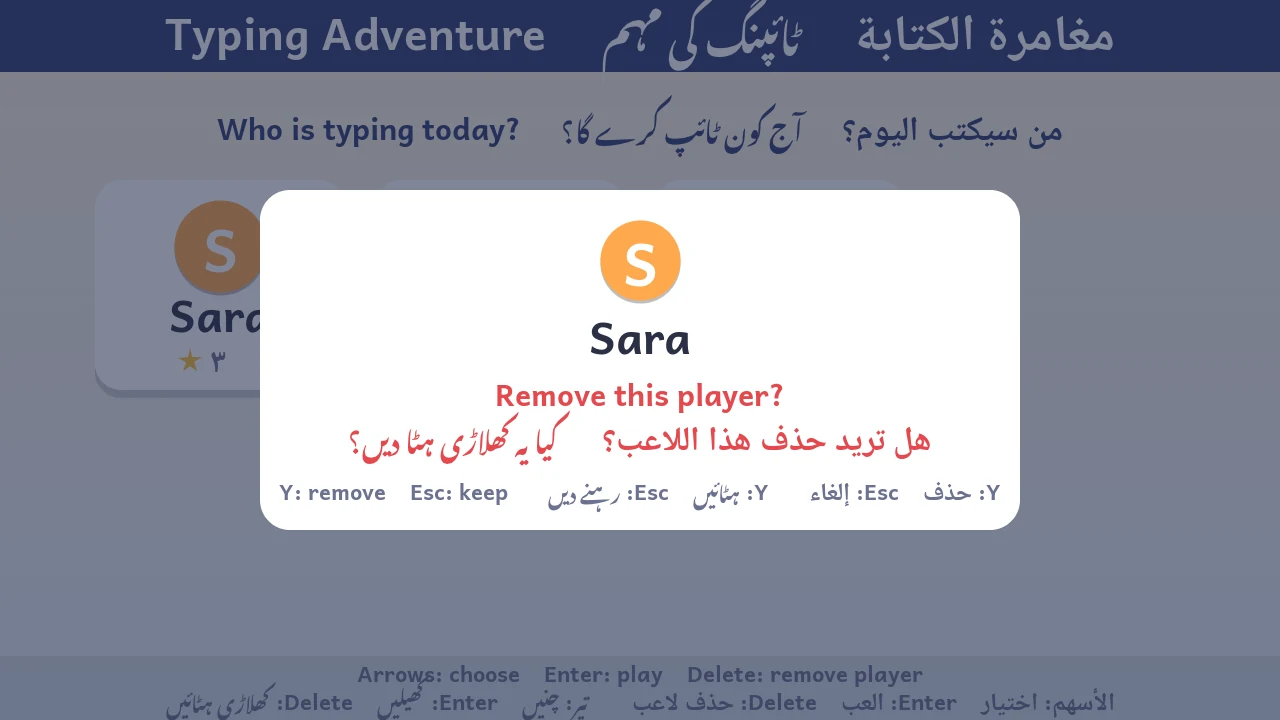
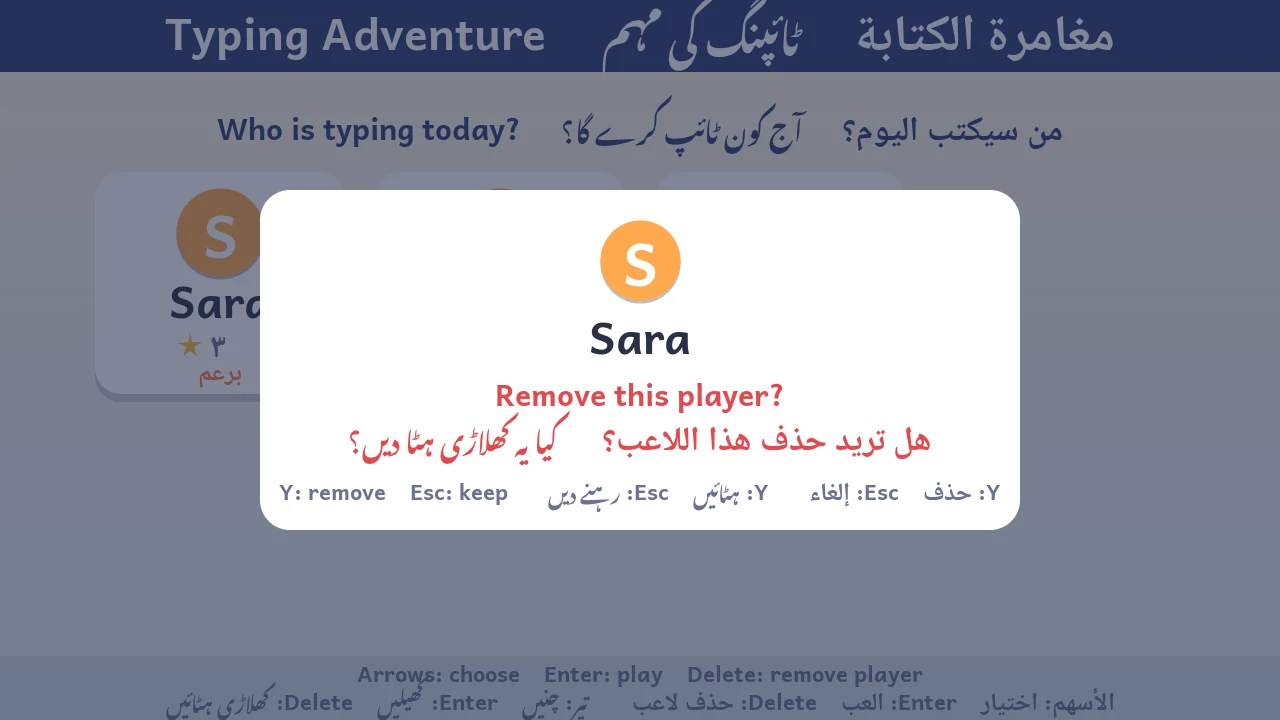
Show player ranks on the player cards and announce new ones
The eight ranks (Seedling to Grand Master, by total stars) existed but were
never drawn. Each player card now shows its rank in the player's language,
and a lesson that raises the rank says "New rank: Explorer!" on the results
screen, in place of the stars comment. Player cards are slightly shorter so
the second row stays clear of the hint bar.

The website gains a rank-up screenshot, and its players screenshot now
shows four players at different ranks.

Changed region(s): [[0.125, 0.2444, 0.2188, 0.55]]

diff --git a/docs/index.html b/docs/index.html
@@ -111,7 +111,7 @@
 			<div class="card">
 				<div class="icon" style="background:var(--f-thumb)"><svg viewBox="0 0 24 24"><path d="M12 3l2.6 5.6 6 .7-4.5 4.1 1.2 6L12 16.4 6.7 19.4l1.2-6-4.5-4.1 6-.7z"/></svg></div>
 				<h4>Fun that is still practice</h4>
-				<p>Stars, points, streaks, 13 badges and a balloon-popping game. The game only uses keys the child has already learned, so playing it is practice too.</p>
+				<p>Stars, points, streaks, 13 badges, eight ranks from Seedling to Grand Master, and a balloon-popping game. The game only uses keys the child has already learned, so playing it is practice too.</p>
 			</div>
 		</div>
 	</div>
@@ -191,7 +191,7 @@
 			<h3>Starting up</h3>
 			<div class="shots">
 				<figure class="shot"><button type="button"><img src="img/splash.webp" width="1280" height="720" loading="lazy" alt="Start screen with bouncing coloured keycaps and the title in three languages."></button><figcaption><strong>Start screen</strong>Shown for a moment while the Pi finds the keyboard.</figcaption></figure>
-				<figure class="shot"><button type="button"><img src="img/players.webp" width="1280" height="720" loading="lazy" alt="Players screen with four player cards and a New player card."></button><figcaption><strong>Who is typing today?</strong>Each child picks their own card. Stars earned so far are shown under each name.</figcaption></figure>
+				<figure class="shot"><button type="button"><img src="img/players.webp" width="1280" height="720" loading="lazy" alt="Players screen with four player cards, each showing stars and a rank, and a New player card."></button><figcaption><strong>Who is typing today?</strong>Each child picks their own card, which shows their stars and rank in their own language.</figcaption></figure>
 				<figure class="shot"><button type="button"><img src="img/new-player.webp" width="1280" height="720" loading="lazy" alt="New player screen with the name Sara typed and a row of colours to pick from."></button><figcaption><strong>New player</strong>Type a name and pick a colour with the arrow keys.</figcaption></figure>
 				<figure class="shot"><button type="button"><img src="img/new-player-ur.webp" width="1280" height="720" loading="lazy" alt="New player screen with an Urdu name typed."></button><figcaption><strong>Names in any script</strong><kbd>Tab</kbd> switches between English, Arabic and Urdu letters.</figcaption></figure>
 				<figure class="shot"><button type="button"><img src="img/courses.webp" width="1280" height="720" loading="lazy" alt="Course picker with English, Arabic and Urdu cards."></button><figcaption><strong>Choose a course</strong>English, Arabic or Urdu, each with its own progress.</figcaption></figure>
@@ -226,9 +226,10 @@
 		</div>
 
 		<div class="tour-group">
-			<h3>Results and badges</h3>
+			<h3>Results, ranks and badges</h3>
 			<div class="shots">
 				<figure class="shot"><button type="button"><img src="img/results.webp" width="1280" height="720" loading="lazy" alt="Lesson complete with three stars, 99% accuracy, 57 words per minute and new badges."></button><figcaption><strong>Lesson complete</strong>Stars, accuracy, speed, points and any new badges.</figcaption></figure>
+				<figure class="shot"><button type="button"><img src="img/rank-up.webp" width="1280" height="720" loading="lazy" alt="Lesson complete with three stars and the message New rank: Explorer!"></button><figcaption><strong>A new rank</strong>Stars from every course add up to eight ranks, from Seedling through Explorer, Keyboard Knight and Typing Hero to Grand Master.</figcaption></figure>
 				<figure class="shot"><button type="button"><img src="img/results-practise.webp" width="1280" height="720" loading="lazy" alt="Lesson complete with one star, 91% accuracy, and the D key to practise."></button><figcaption><strong>Keys to practise</strong>The keys that caused the most mistakes, and a hint for earning more stars.</figcaption></figure>
 				<figure class="shot"><button type="button"><img src="img/badges.webp" width="1280" height="720" loading="lazy" alt="The badges screen with 13 badges, some earned in colour and some still grey."></button><figcaption><strong>13 badges</strong>From First Steps and Home Row Hero to Rocket (30 words per minute), Bilingual and Graduate.</figcaption></figure>
 			</div>

diff --git a/src/core/app.cpp b/src/core/app.cpp
@@ -23,6 +23,7 @@ void App::Init()
 	m_now = m_lastUpdate = m_platform->Millis();
 	m_dirty = true;
 	m_caps = false;
+	m_newRank = -1;
 	m_player = 0;
 	m_lang = LangEn;
 	m_sel = 0;
@@ -672,9 +673,9 @@ void App::DrawProfiles(Canvas &c)
 	DrawAllLangs(c, S_WhoIsTyping, font::Body, W / 2, 140, pal::Navy);
 
 	int items = m_store.count + (m_store.count < kMaxProfiles ? 1 : 0);
-	const int cw = 250, ch = 210, gap = 30, x0 = (W - (4 * cw + 3 * gap)) / 2;
+	const int cw = 250, ch = 222, gap = 30, x0 = (W - (4 * cw + 3 * gap)) / 2;
 	for (int i = 0; i < items; i++) {
-		int x = x0 + (i % 4) * (cw + gap), y = 180 + (i / 4) * (ch + 26);
+		int x = x0 + (i % 4) * (cw + gap), y = 172 + (i / 4) * (ch + 20);
 		bool sel = i == m_sel && !m_confirmDelete;
 		if (sel)
 			y -= 6;
@@ -684,18 +685,21 @@ void App::DrawProfiles(Canvas &c)
 			c.StrokeRoundRect(x - 2, y - 2, cw + 4, ch + 4, 28, 5, pal::Accent);
 		if (i < m_store.count) {
 			const Profile &p = m_store.players[i];
-			DrawAvatar(c, x + cw / 2, y + 66, 46, p);
-			DrawName(c, p, font::Title, x + cw / 2, y + 152, pal::Ink, AlignCenter);
+			DrawAvatar(c, x + cw / 2, y + 60, 44, p);
+			DrawName(c, p, font::Title, x + cw / 2, y + 146, pal::Ink, AlignCenter);
 			char num[16];
 			FormatNumIn(num, sizeof num, (u32)p.TotalStars(), (Lang)p.lang);
-			c.FillStar(x + cw / 2 - 30, y + 181, 13, pal::Gold);
-			c.Text(num, font::Body, x + cw / 2 - 10, y + 192, pal::InkSoft, AlignLeft);
+			c.FillStar(x + cw / 2 - 30, y + 174, 13, pal::Gold);
+			c.Text(num, font::Body, x + cw / 2 - 10, y + 185, pal::InkSoft, AlignLeft);
+			Lang pl = (Lang)p.lang;
+			c.Text(Str((StrId)(S_Rank0 + p.Rank()), pl), font::Small, x + cw / 2, y + 208, pal::Accent,
+			       AlignCenter, pl != LangEn);
 		} else {
-			c.FillCircle(x + cw / 2, y + 70, 46, 0xFFEFF1F7);
-			c.FillRect(x + cw / 2 - 22, y + 66, 44, 8, pal::Accent);
-			c.FillRect(x + cw / 2 - 4, y + 48, 8, 44, pal::Accent);
-			c.Text(Str(S_NewPlayer, LangEn), font::Body, x + cw / 2, y + 150, pal::Ink, AlignCenter);
-			DrawArUr(c, S_NewPlayer, font::Small, x + cw / 2, y + 188, pal::Ink);
+			c.FillCircle(x + cw / 2, y + 62, 44, 0xFFEFF1F7);
+			c.FillRect(x + cw / 2 - 22, y + 58, 44, 8, pal::Accent);
+			c.FillRect(x + cw / 2 - 4, y + 40, 8, 44, pal::Accent);
+			c.Text(Str(S_NewPlayer, LangEn), font::Body, x + cw / 2, y + 146, pal::Ink, AlignCenter);
+			DrawArUr(c, S_NewPlayer, font::Small, x + cw / 2, y + 184, pal::Ink);
 		}
 	}
 	if (!m_platform->StorageAvailable()) {

diff --git a/src/core/lesson.cpp b/src/core/lesson.cpp
@@ -189,6 +189,7 @@ void App::FinishLesson()
 	m_resPoints = m_points + m_resStars * 25;
 
 	u32 before = p.badges;
+	int rankBefore = p.Rank();
 	CourseProgress &cp = p.course[m_lang];
 	m_resBest = m_resStars > cp.stars[m_lesson] && cp.stars[m_lesson] > 0;
 	cp.stars[m_lesson] = (u8)Max<int>(cp.stars[m_lesson], m_resStars);
@@ -200,6 +201,9 @@ void App::FinishLesson()
 	p.keys += (u32)m_typed;
 	p.bestCombo = (u16)Max<int>(p.bestCombo, m_maxCombo);
 	AwardBadges(before);
+	m_newRank = p.Rank() > rankBefore ? p.Rank() : -1;
+	if (m_newRank >= 0 && !m_newBadges)
+		sfx::Trigger(SfxBadge);
 	Save();
 
 	// Confetti for a good result.
@@ -596,8 +600,16 @@ void App::DrawResults(Canvas &c)
 		if (i == 1)
 			c.TextCentered(T(S_Wpm), font::Small, cx, py + 276, 30, pal::InkSoft, AlignCenter, rtl);
 	}
-	StrId msg = (StrId)(S_Stars0 - m_resStars);
-	c.TextCentered(T(msg), font::Body, W / 2, py + 316, 46, pal::Ink, AlignCenter, rtl);
+	if (m_newRank >= 0) {
+		char rank[96] = "";
+		StrAppend(rank, T(S_NewRank), sizeof rank);
+		StrAppend(rank, T((StrId)(S_Rank0 + m_newRank)), sizeof rank);
+		StrAppend(rank, "!", sizeof rank);
+		c.TextCentered(rank, font::Title, W / 2, py + 312, 54, pal::Accent, AlignCenter, rtl);
+	} else {
+		StrId msg = (StrId)(S_Stars0 - m_resStars);
+		c.TextCentered(T(msg), font::Body, W / 2, py + 316, 46, pal::Ink, AlignCenter, rtl);
+	}
 
 	// Keys that caused mistakes, most frequent first.
 	int order[16];

diff --git a/src/core/strings.cpp b/src/core/strings.cpp
@@ -220,6 +220,8 @@ static const StrPair kStrings[S_Count] = {
 		"ٹائپنگ چیمپئن"},
 	/* S_Rank7 */ {"Grand Master", "الأستاذ الكبير",
 		"استادِ اعظم"},
+	/* S_NewRank */ {"New rank: ", "رتبة جديدة: ",
+		"نیا درجہ: "},
 };
 
 const char *Str(StrId id, Lang lang) { return kStrings[id].s[lang]; }

diff --git a/src/core/app.h b/src/core/app.h
@@ -169,6 +169,7 @@ private:
 	// Results
 	int m_resStars, m_resAcc, m_resWpm, m_resPoints, m_resStarsShown;
 	bool m_resBest;
+	int m_newRank;  // rank reached by the last lesson, or -1
 	u32 m_newBadges;
 
 public:

diff --git a/src/core/strings.h b/src/core/strings.h
@@ -102,6 +102,7 @@ enum StrId {
 	S_Rank5,
 	S_Rank6,
 	S_Rank7,
+	S_NewRank,
 	S_Count
 };
 

diff --git a/README.md b/README.md
@@ -155,8 +155,13 @@ A lesson counts as passed at **90% accuracy** (1 star). **95%** earns 2 stars.
 **98%** plus the lesson's target speed (8–18 words per minute) earns 3 stars.
 The results screen lists the keys that caused the most mistakes.
 
+Stars from all three courses add up to a **rank**: Seedling, Explorer (6
+stars), Adventurer (15), Keyboard Knight (30), Speed Star (50), Typing Hero
+(75), Typing Champion (105) and Grand Master (140). Each player's card shows
+their rank, and the results screen announces a new one.
+
 **Game features:** stars, points, combo streaks with celebrations, 13 badges,
-player ranks (Seedling to Grand Master), and **Balloon Pop**, a game that uses
+player ranks, and **Balloon Pop**, a game that uses
 only the keys learned so far, with letters or words.
 
 In Balloon Pop, every 10 balloons popped clears a level, and each level is
